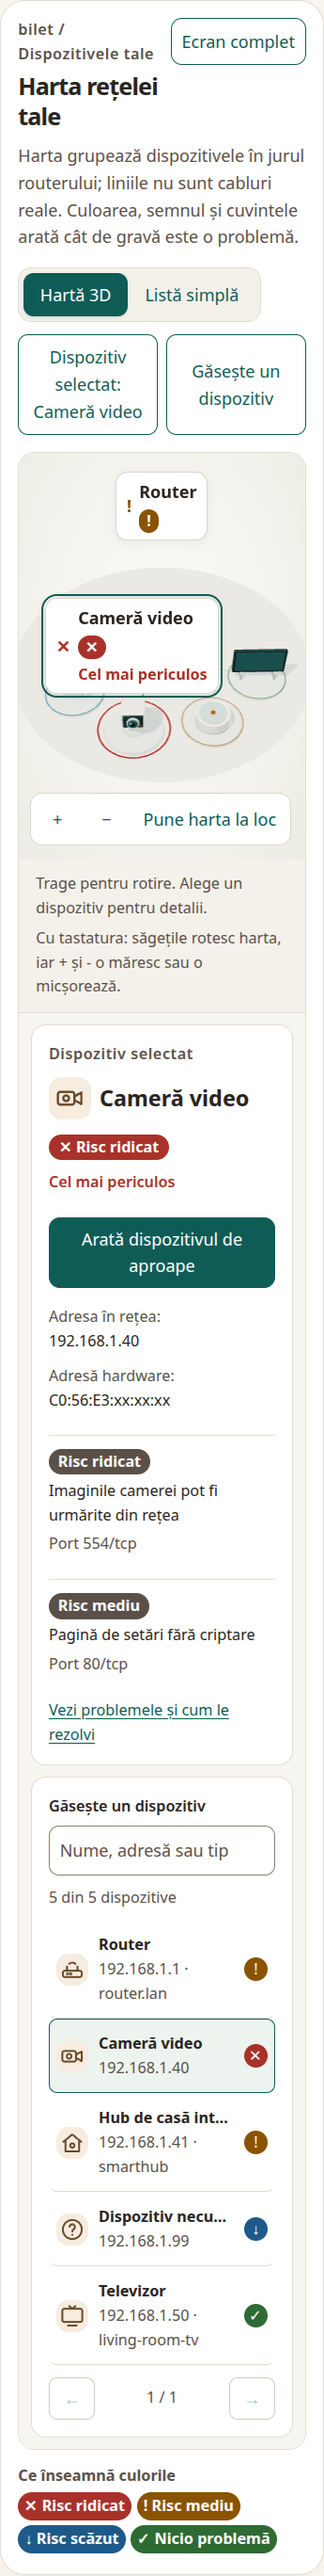
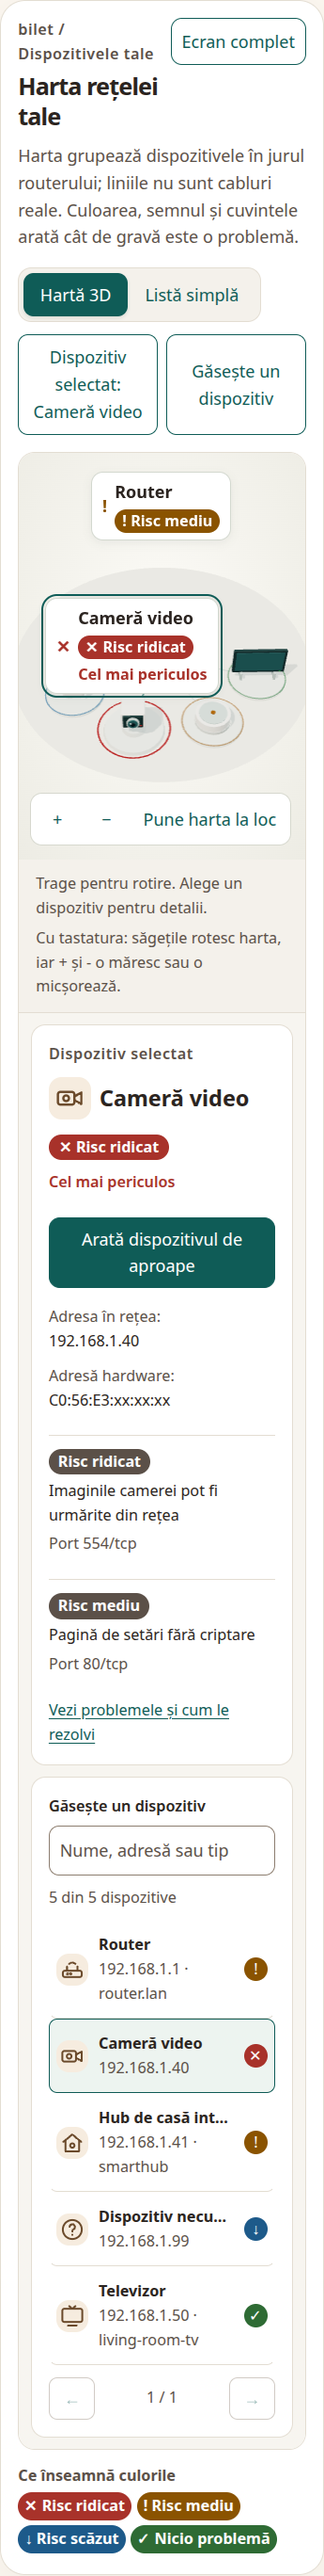
Keep compact risk words visible and add rendered browser regression

Changed region(s): [[0.3478, 0.1864, 0.6667, 0.2175], [0.3188, 0.2485, 0.6087, 0.2796]]

diff --git a/src/tool/web/static/netmap.css b/src/tool/web/static/netmap.css
@@ -89,6 +89,7 @@ body:has(#network-map) > header, body:has(#network-map) > footer { max-width: 46
 .nm-status-dot { color: var(--node-accent); font-weight: 700; font-size: 1rem; }
 .nm-label[aria-pressed="true"] { outline: 2px solid #0f5c57; outline-offset: 2px; }
 .netmap-stage.compact .nm-label .nm-type { display: block; }
+.netmap-stage.compact .nm-label .lvl-word { display: inline; }
 .netmap-stage.compact .nm-label .nm-address { display: none; }
 .netmap-legend { display: flex; justify-content: space-between; align-items: baseline;
   gap: .75rem; margin-top: .8rem; flex-wrap: wrap; font-size: .9rem; }

diff --git a/scripts/check_map_browser.py b/scripts/check_map_browser.py
@@ -1,0 +1,50 @@
+"""Optional rendered map audit: run a local bilet UI with a scan, then this script.
+
+Requires Playwright and its Chromium installation. The check never starts a scan.
+Example: python scripts/check_map_browser.py --url http://127.0.0.1:8000/?lang=en
+"""
+
+import argparse
+
+
+def main() -> None:
+    from playwright.sync_api import sync_playwright
+
+    parser = argparse.ArgumentParser(description=__doc__)
+    parser.add_argument("--url", default="http://127.0.0.1:8000/?lang=en")
+    args = parser.parse_args()
+    with sync_playwright() as playwright:
+        browser = playwright.chromium.launch(
+            args=["--use-gl=angle", "--use-angle=swiftshader", "--enable-unsafe-swiftshader"]
+        )
+        try:
+            page = browser.new_page(reduced_motion="reduce")
+            for width, height in ((375, 812), (1280, 800), (1366, 768)):
+                page.set_viewport_size({"width": width, "height": height})
+                page.goto(args.url)
+                page.locator(".netmap-3d").wait_for(state="visible")
+                page.locator(".nm-label:not([hidden]) .lvl-word").first.wait_for(state="visible")
+                audit = page.evaluate(
+                    """() => {
+                      const words = [...document.querySelectorAll(
+                        '.nm-label:not([hidden]) .lvl-word')];
+                      const fits = selector => {
+                        const node = document.querySelector(selector);
+                        return node.scrollHeight <= node.clientHeight + 1;
+                      };
+                      return words.length > 0 && words.every(node =>
+                        getComputedStyle(node).display !== 'none' &&
+                        parseFloat(getComputedStyle(node).fontSize) >= 16) &&
+                        fits('.netmap-detail') && fits('.netmap-directory') &&
+                        document.documentElement.scrollWidth <= innerWidth;
+                    }"""
+                )
+                if not audit:
+                    raise RuntimeError(f"Map text visibility or layout failed at {width}x{height}")
+                print(f"PASS {width}x{height}: risk words, text size and unclipped panels")
+        finally:
+            browser.close()
+
+
+if __name__ == "__main__":
+    main()

diff --git a/docs/screenshots/173-map/README.md b/docs/screenshots/173-map/README.md
@@ -55,3 +55,15 @@ restoration defect: 3D is now disabled during context loss and re-enabled with
 a render request on restoration. Both the reviewer and a browser loss/restore
 probe verified the fix. Dense worst-label visibility and keyboard-focus selection
 also passed browser checks.
+
+Final independent review caught an inherited compact-stage rule hiding risk words.
+The explicit override now keeps those words visible at phone widths. Reproduce the
+rendered-style regression with Playwright/Chromium installed and a local UI showing
+an example scan:
+
+```sh
+python scripts/check_map_browser.py --url 'http://127.0.0.1:8000/?lang=en'
+```
+
+This checks actual computed text visibility and panel clipping at 375, 1280 and
+1366 pixels; it never starts a live scan.
